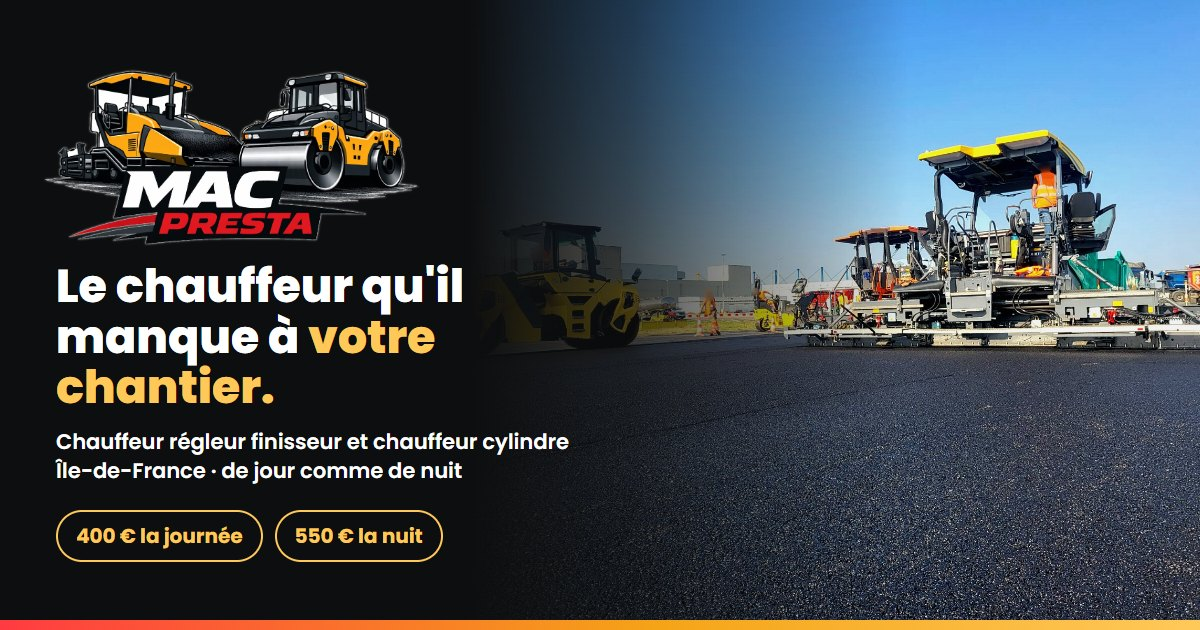
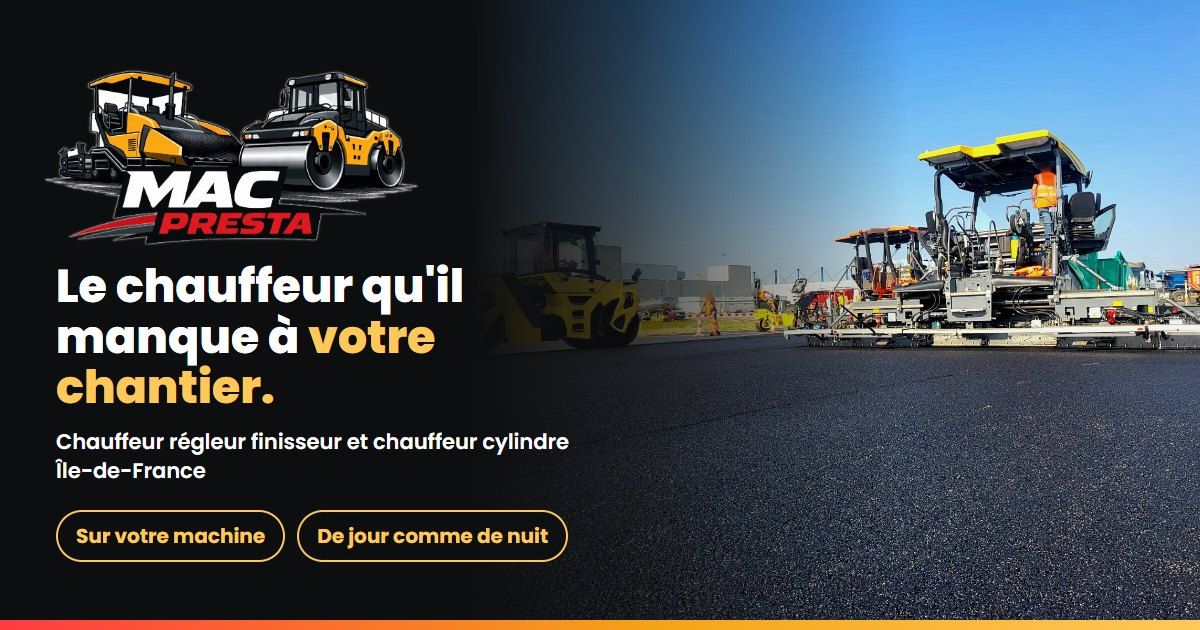
Image de partage sans les prix

Changed region(s): [[0.0617, 0.7841, 0.4933, 0.9048], [0.185, 0.7238, 0.4008, 0.7841]]

diff --git a/index.html b/index.html
@@ -4,8 +4,8 @@
 <link rel="preconnect" href="https://fonts.gstatic.com" crossorigin />
 <link rel="stylesheet" href="https://fonts.googleapis.com/css2?family=Poppins:wght@400;500;600;700;800&display=swap" />
 <meta name="theme-color" content="#0D0E0F" />
-<link rel="stylesheet" href="assets/css/style.css?v=mv5gyceq" />
-<link rel="stylesheet" href="assets/css/macpresta.css?v=mv5gyceq" />
+<link rel="stylesheet" href="assets/css/style.css?v=mv5hrgea" />
+<link rel="stylesheet" href="assets/css/macpresta.css?v=mv5hrgea" />
 <title>MAC PRESTA — Chauffeur régleur finisseur et chauffeur cylindre, Île-de-France</title>
 <meta name="description" content="Chauffeur régleur finisseur et chauffeur cylindre sur votre machine, de jour comme de nuit, en Île-de-France. Envoyez votre date, je vous rappelle pour confirmer." />
 <link rel="canonical" href="https://macpresta.fr/" />
@@ -19,16 +19,16 @@
 <meta property="og:url" content="https://macpresta.fr/" />
 <meta property="og:title" content="MAC PRESTA — le chauffeur qu'il manque à votre chantier" />
 <meta property="og:description" content="Chauffeur régleur finisseur et chauffeur cylindre sur votre machine, de jour comme de nuit, en Île-de-France. Envoyez votre date, je vous rappelle pour confirmer." />
-<meta property="og:image" content="https://macpresta.fr/og-macpresta.jpg" />
+<meta property="og:image" content="https://macpresta.fr/og-macpresta.jpg?v=2" />
 <meta property="og:image:width" content="1200" />
 <meta property="og:image:height" content="630" />
 <meta property="og:image:alt" content="MAC PRESTA — chauffeur régleur finisseur et chauffeur cylindre, de jour comme de nuit" />
 <meta name="twitter:card" content="summary_large_image" />
 <meta name="twitter:title" content="MAC PRESTA — le chauffeur qu'il manque à votre chantier" />
 <meta name="twitter:description" content="Chauffeur régleur finisseur et chauffeur cylindre sur votre machine, de jour comme de nuit, en Île-de-France. Envoyez votre date, je vous rappelle pour confirmer." />
-<meta name="twitter:image" content="https://macpresta.fr/og-macpresta.jpg" />
+<meta name="twitter:image" content="https://macpresta.fr/og-macpresta.jpg?v=2" />
 <script type="application/ld+json">
-{"@context":"https://schema.org","@type":"LocalBusiness","name":"MAC PRESTA","url":"https://macpresta.fr/","image":"https://macpresta.fr/og-macpresta.jpg","logo":"https://macpresta.fr/icone-192.png",
+{"@context":"https://schema.org","@type":"LocalBusiness","name":"MAC PRESTA","url":"https://macpresta.fr/","image":"https://macpresta.fr/og-macpresta.jpg?v=2","logo":"https://macpresta.fr/icone-192.png",
 "description":"Chauffeur régleur finisseur et chauffeur cylindre, sur la machine du client, de jour comme de nuit. Conduite du porte-engins en option.",
 "telephone":"+33620535957","email":"mickael.araujocosta@gmail.com",
 "address":{"@type":"PostalAddress","addressLocality":"Pierre-Levée","postalCode":"77580","addressRegion":"Île-de-France","addressCountry":"FR"},
@@ -257,5 +257,5 @@
   <div class="footer-bottom">© 2026 MAC PRESTA · Mickael Araujo Costa, entrepreneur individuel · SIRET 914 315 528 00010 · TVA non applicable, art. 293 B du CGI · <a href="mentions-legales.html" style="color:inherit;text-decoration:underline">Mentions légales</a><br><a class="signe-impact" href="https://impact-nva.fr" target="_blank" rel="noopener"><img src="assets/images/impact-nva.png" alt="" width="192" height="192" loading="lazy">Réalisé par Impact-NVA</a></div>
 </footer>
 
-<script src="assets/js/main.js?v=mv5gyceq"></script>
+<script src="assets/js/main.js?v=mv5hrgea"></script>
 </body></html>
